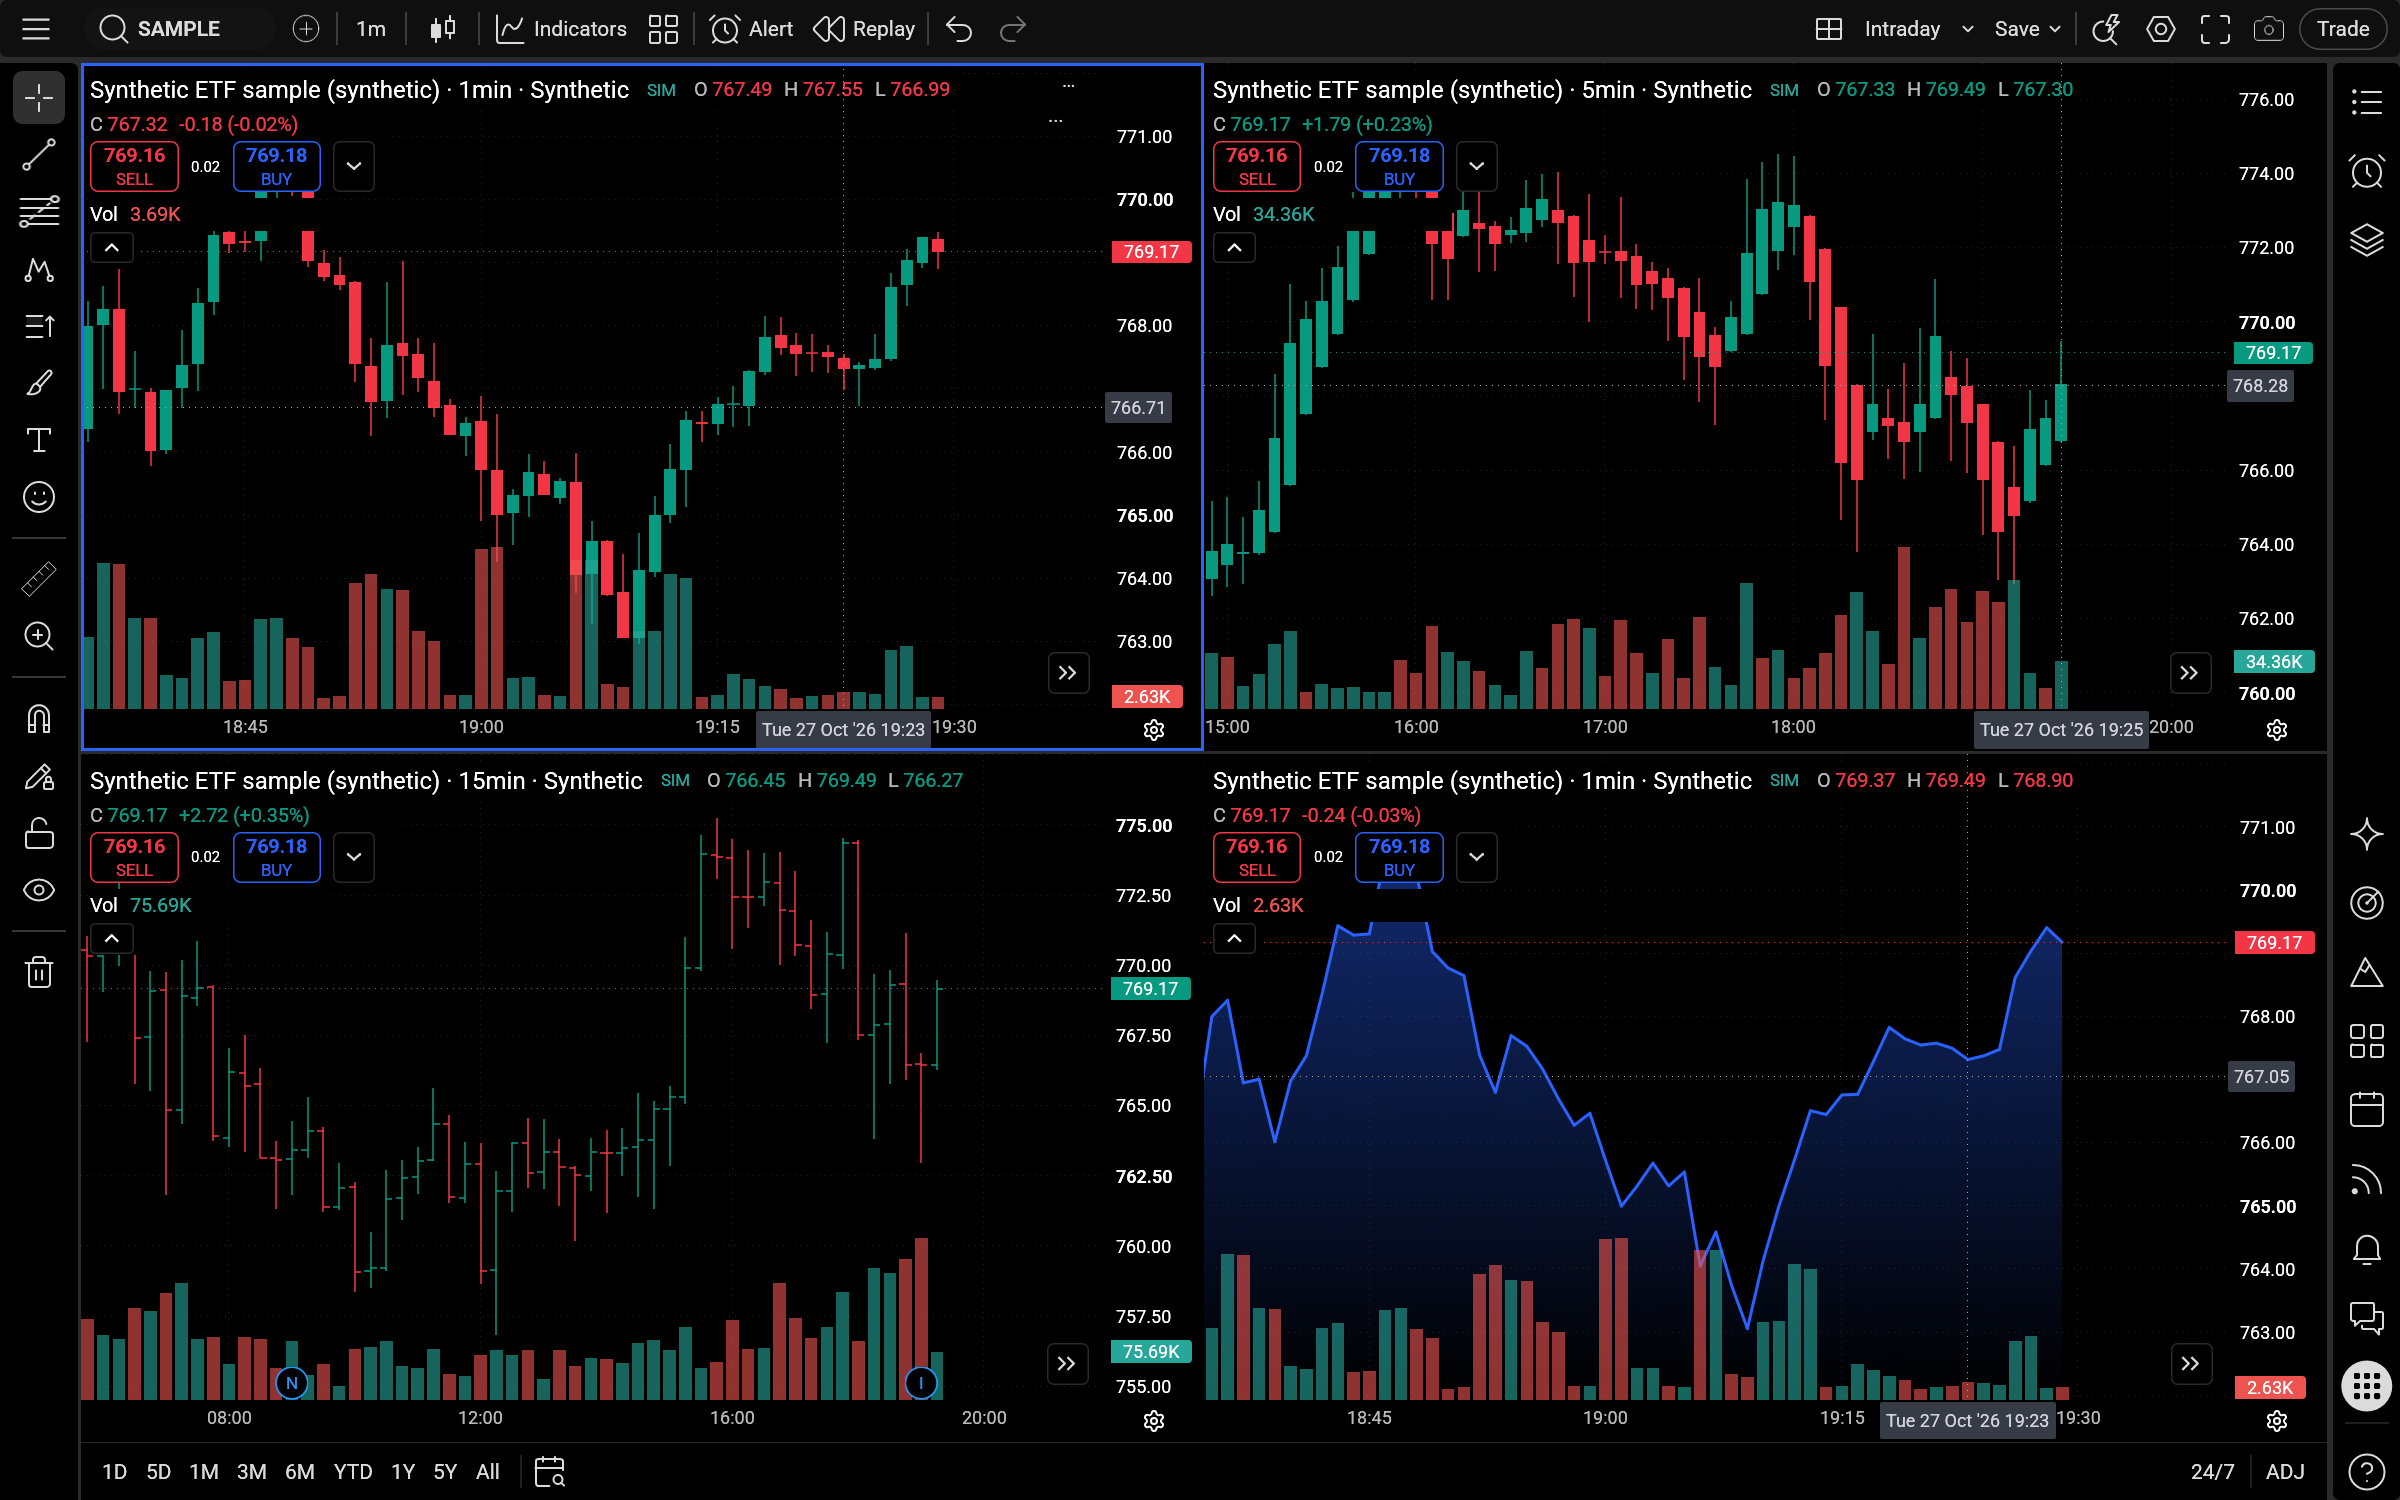
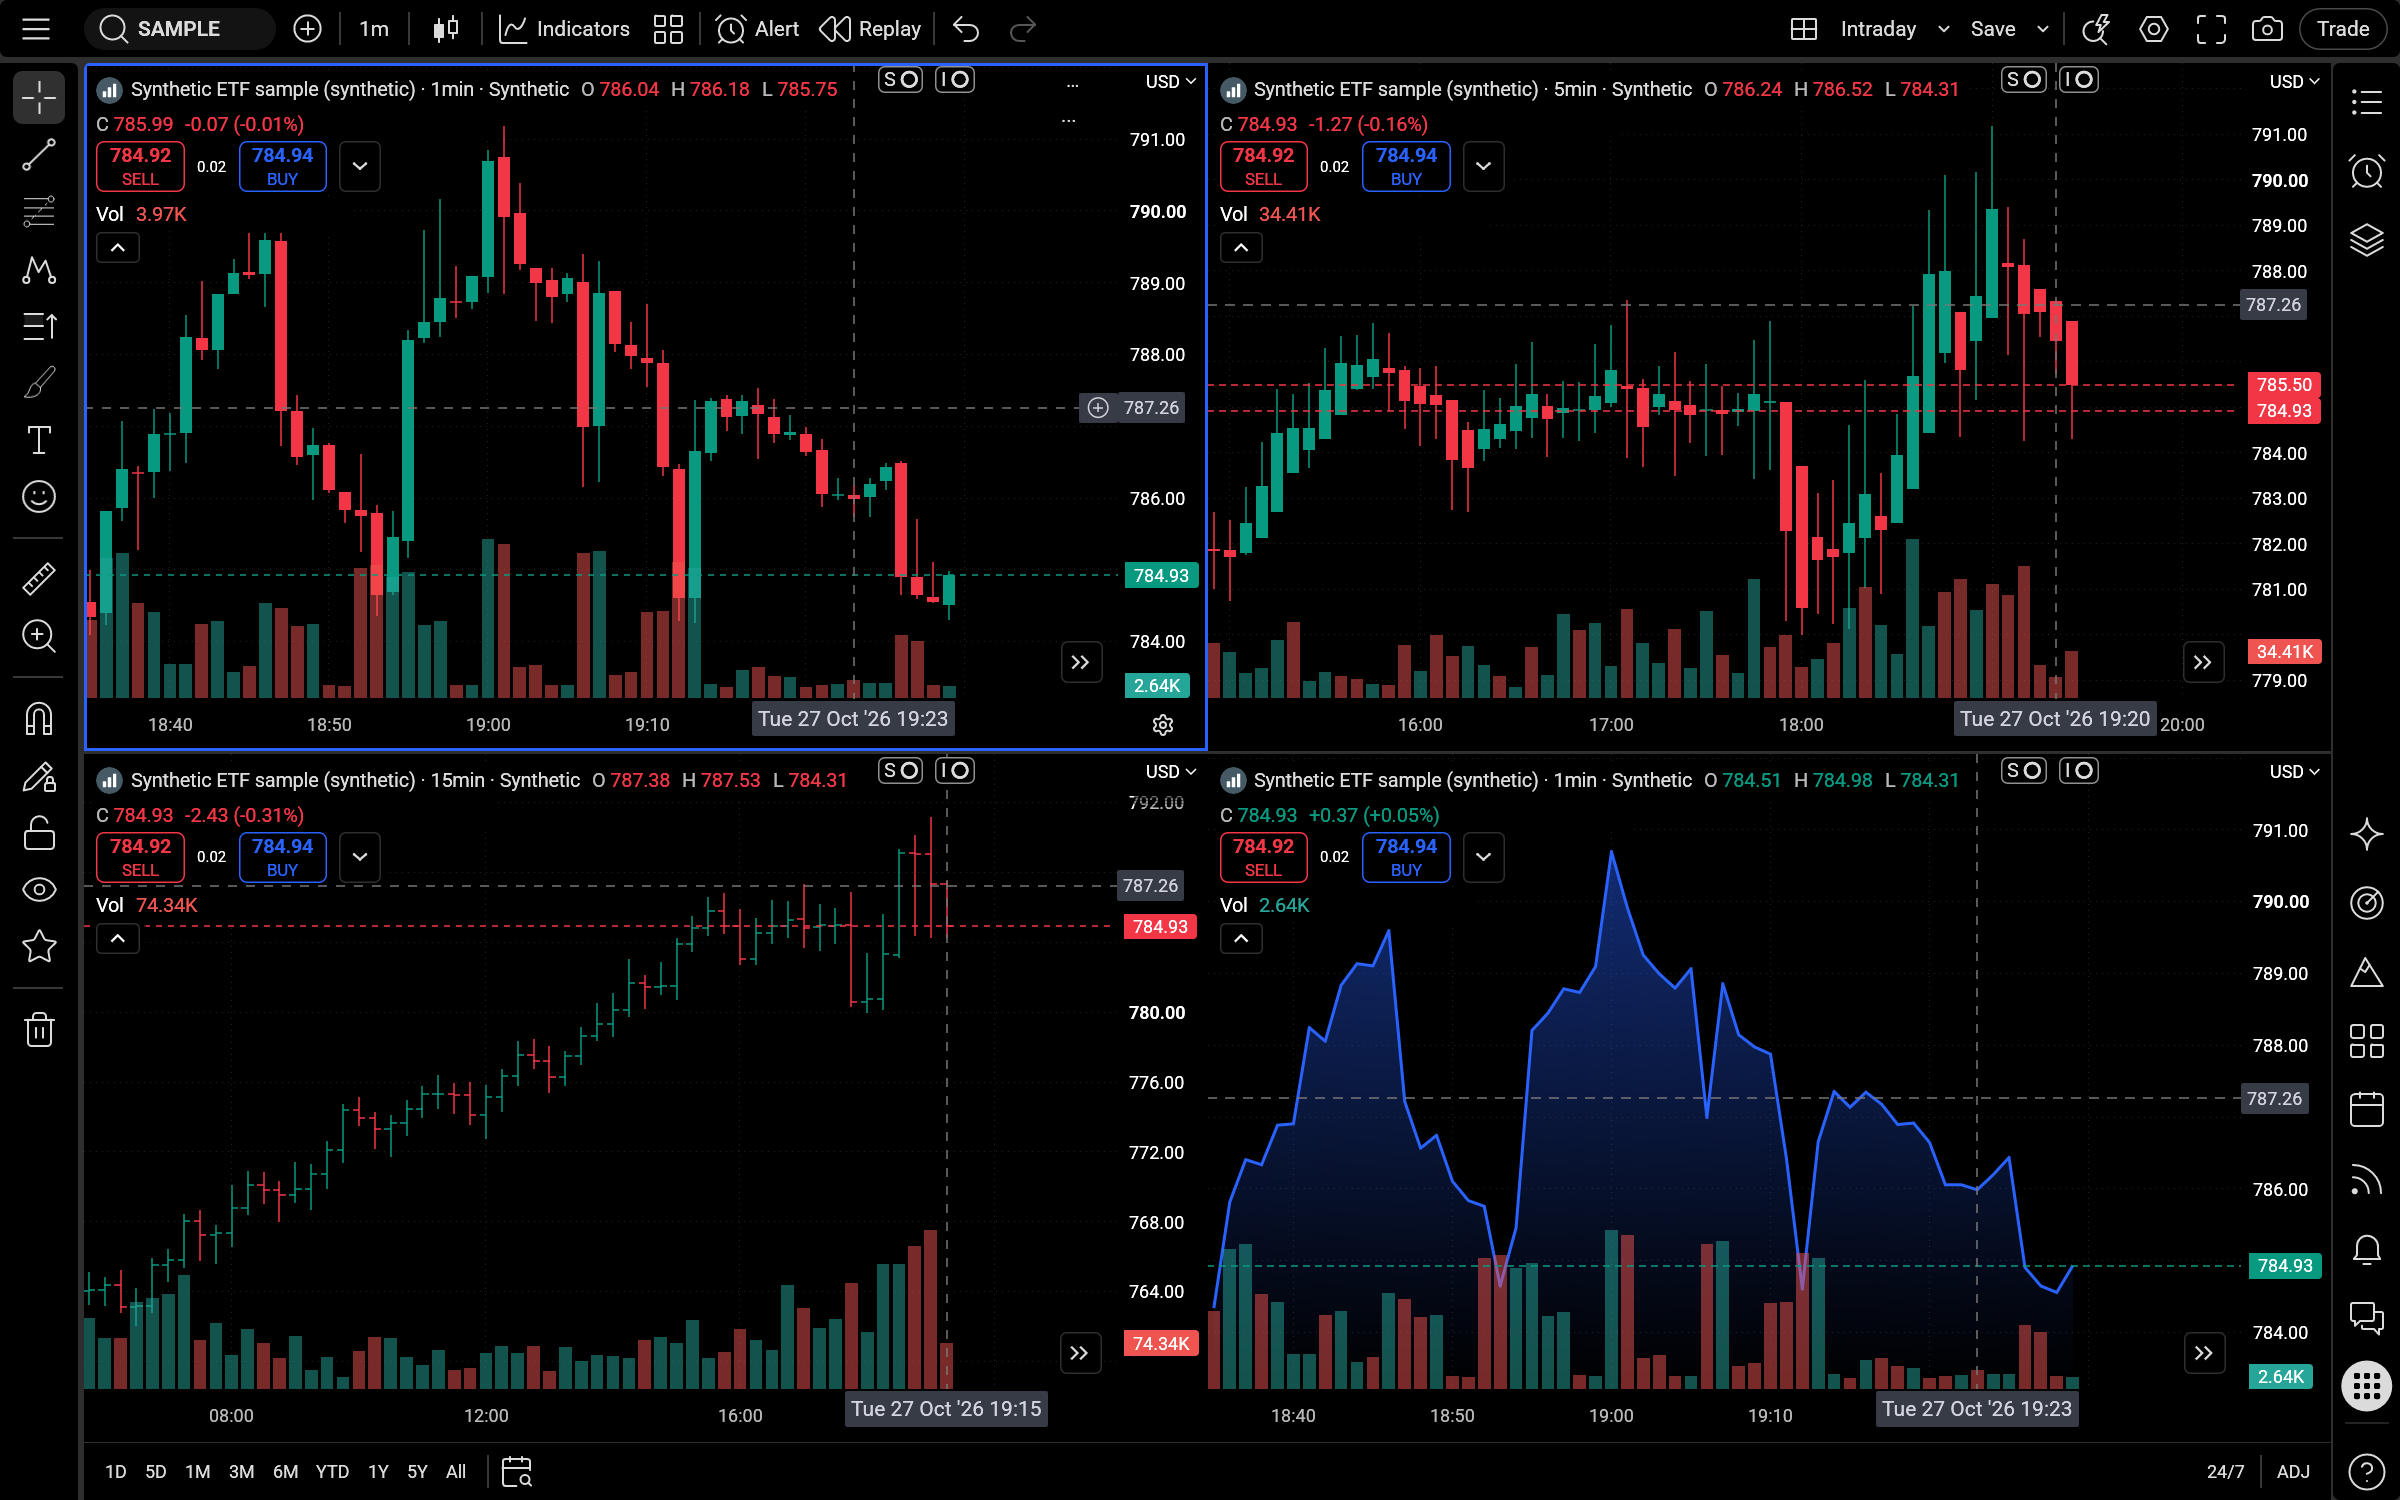
docs(readme): recapture the gallery images in the current palette (#2429)
**docs(readme): recapture the gallery stills in the current palette**

The chart types, depth, footprint, layouts, profile, studies and trading images predate the palette changes in #1303 and #1568, and the profile image predates the current volume profile drawing, so opening the demo after reading the README showed a different look from the one advertised. All fourteen are recaptured in both themes.

Three scene faults would have carried over into a plain recapture:

- Stills rendered after a fixed number of frames, but each pane simulates
  its feed in batches per frame, so some panes of a layout stopped more
  than an hour before the others, and the single-pane profile scene too.
  Every scene now waits for the active chart's history after each step,
  as motion scenes already did at startup, and the layout scenes assert
  that each pane ends on the bar holding the sample time.
- The profile scene passed three colours, which also overwrote the value
  area's two, so the value area looked like the rows outside it. It now
  uses the study's default colours.
- The working limit order sat 0.09 from the stop loss, so their cards
  overlapped, and the ticket's limit card ran into the execution marker.
  The price levels are spaced so that no two cards touch. The footprint
  and profile scenes also leave room under the legend, and the profile
  scene shows fewer bars so that a wick clears its data source note.
[…]

diff --git a/docs/capture/main.rs b/docs/capture/main.rs
@@ -191,17 +191,10 @@ fn scenes() -> Vec<Scene> {
             vec![
                 ClearStudies,
                 Interval(Timeframe::Min5),
-                Study(|| {
-                    let mut profile = studies::VolProfileSession::default();
-                    profile.set_colors(vec![
-                        egui::Color32::from_rgb(41, 98, 255),
-                        egui::Color32::from_rgba_unmultiplied(38, 166, 154, 65),
-                        egui::Color32::from_rgba_unmultiplied(239, 83, 80, 65),
-                    ]);
-                    Box::new(profile)
-                }),
+                Study(study::<studies::VolProfileSession>),
                 Study(study::<studies::EMA>),
-                Visible(72),
+                // Wide enough bars that the session high's wick clears the profile's data source note.
+                Visible(60),
             ],
         ),
     ]
@@ -275,6 +268,29 @@ fn chart_rect(ctx: &Context) -> Rect {
     r
 }
 
+/// Runs frames until the active chart's feed has delivered its history. Each pane of a layout simulates
+/// its own feed in batches per frame, so a fixed number of frames would stop it partway through the day.
+fn wait_for_history(h: &mut Harness<'static, pointer::CaptureApp>) {
+    let ready = |h: &Harness<'_, pointer::CaptureApp>| {
+        h.state()
+            .chart
+            .feed_state(SeriesId::MAIN)
+            .is_some_and(|state| {
+                state.status == Some(egui_charts::data::FeedStatus::Live) && !state.loading_history
+            })
+    };
+    for _ in 0..2_000 {
+        if ready(h) {
+            break;
+        }
+        h.step();
+    }
+    assert!(
+        ready(h),
+        "sample history must finish before scripting a scene"
+    );
+}
+
 fn prepare(
     scene: &Scene,
     light: bool,
@@ -315,28 +331,8 @@ fn prepare(
             }
         });
     h.run_steps(3);
-    if animated {
-        // Replay and drawings must start from the completed history, including retained executions.
-        let ready = |h: &Harness<'_, pointer::CaptureApp>| {
-            h.state()
-                .chart
-                .feed_state(SeriesId::MAIN)
-                .is_some_and(|state| {
-                    state.status == Some(egui_charts::data::FeedStatus::Live)
-                        && !state.loading_history
-                })
-        };
-        for _ in 0..2_000 {
-            if ready(&h) {
-                break;
-            }
-            h.step();
-        }
-        assert!(
-            ready(&h),
-            "sample history must finish before scripting a scene"
-        );
-    }
+    // Replay and drawings must start from the completed history, including retained executions.
+    wait_for_history(&mut h);
     let ctx = h.ctx.clone();
     if !animated {
         h.state_mut().toggle_panel(RightBarIcon::Notifications);
@@ -369,6 +365,7 @@ fn prepare(
     for step in &scene.steps {
         apply(h.state_mut(), &ctx, step);
         h.run_steps(4);
+        wait_for_history(&mut h);
         match step {
             Step::Position | Step::Limit => {
                 let price = h.state().chart.bars(SeriesId::MAIN).last().unwrap().close;
@@ -380,12 +377,12 @@ fn prepare(
                     if position {
                         OrderType::Market
                     } else {
-                        OrderType::Limit((price * 100.0).round() / 100.0 - 1.8)
+                        OrderType::Limit((price * 100.0).round() / 100.0 - 2.3)
                     },
                 );
                 if position {
                     order.take_profit = Some((price * 100.0).round() / 100.0 + 4.5);
-                    order.stop_loss = Some((price * 100.0).round() / 100.0 - 2.5);
+                    order.stop_loss = Some((price * 100.0).round() / 100.0 - 3.6);
                 }
                 h.state_mut().trading.open_ticket(order);
                 h.run_steps(5);
@@ -405,7 +402,7 @@ fn prepare(
                     SAMPLE,
                     OrderSide::Buy,
                     25.0,
-                    OrderType::Limit((price * 100.0).round() / 100.0 - 0.6),
+                    OrderType::Limit((price * 100.0).round() / 100.0 - 1.6),
                 );
                 order.take_profit = Some((price * 100.0).round() / 100.0 + 1.2);
                 order.stop_loss = Some((price * 100.0).round() / 100.0 - 3.7);
@@ -473,6 +470,21 @@ fn prepare(
         h.state_mut().activate_chart_slot(0);
         h.run_steps(5);
     }
+    if matches!(scene.name, "layouts" | "chart-types") {
+        let now: chrono::DateTime<chrono::Utc> = "2026-10-27T19:29:50Z".parse().unwrap();
+        for slot in 0..4 {
+            h.state_mut().activate_chart_slot(slot);
+            let chart = &h.state().chart;
+            let last = chart.bars(SeriesId::MAIN).last().unwrap().time;
+            let interval = chart.timeframe().unwrap().duration();
+            assert!(
+                last <= now && now < last + interval,
+                "{} pane {slot} ends at {last}, before the sample clock",
+                scene.name
+            );
+        }
+        h.state_mut().activate_chart_slot(0);
+    }
     if !matches!(scene.name, "layouts" | "chart-types" | "tour") {
         let count = scene.steps.iter().rev().find_map(|s| {
             if let Step::Visible(n) = s {
@@ -495,6 +507,15 @@ fn prepare(
     }
     if matches!(scene.name, "footprint" | "tour") {
         h.state_mut().chart.scroll_to_position(0.5, false);
+    }
+    if matches!(scene.name, "footprint" | "profile") {
+        // Keep the tallest columns and the highest profile rows below the legend.
+        h.state_mut()
+            .chart
+            .price_scale_mut()
+            .options_mut()
+            .scale_margins
+            .top = 0.16;
     }
     // Let feed replies and pane sizes settle before rendering.
     h.run_steps(10);
